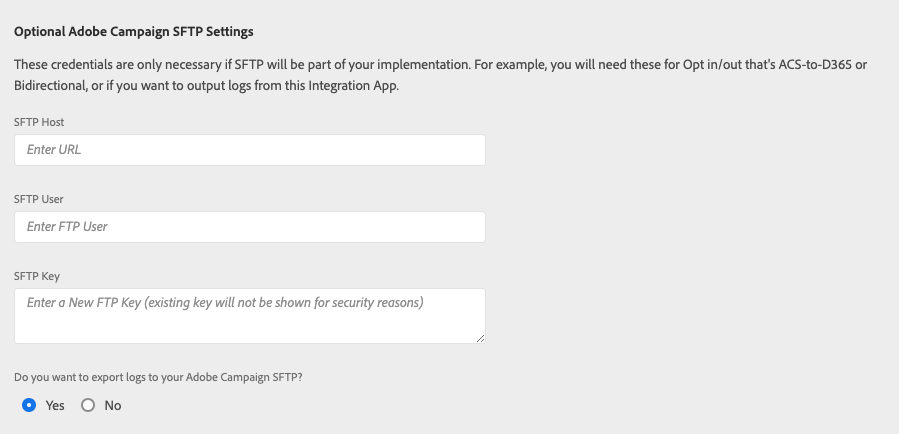
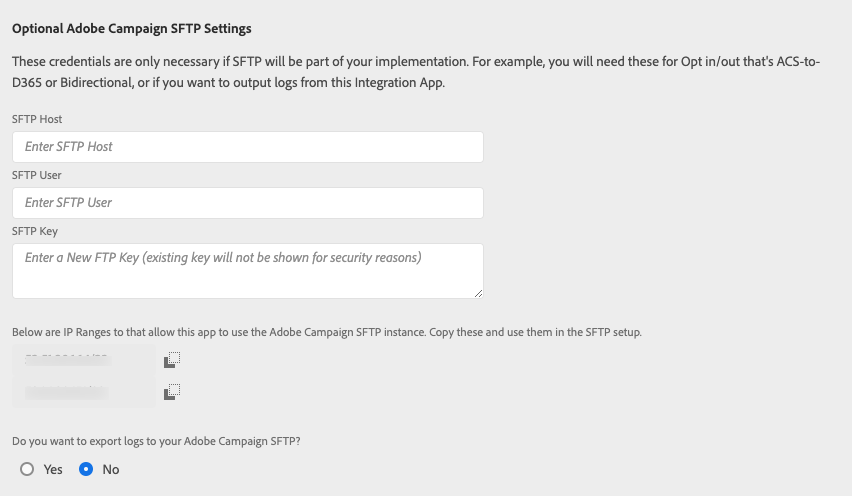
updates from document review

diff --git a/help/integrating/using/self-service-app-settings.md b/help/integrating/using/self-service-app-settings.md
@@ -65,7 +65,9 @@ there is a flow of data from Adobe Campaign to Dynamics 365 (either "Unidirectio
 
 * <u>SFTP Key</u>: TBD (need to include or reference instructions)
 
-QUESTIONS: 
-* ARE WE GOING TO SUPPLY OR IP RANGES FOR THEM TO USE WITH SFTP SETUP?
-* CAN WE DEFINE (SFTP) "SFTP HOST" (ADOBE.IO) "URL" BASED ONT HE CURRENTLY SELECTED INSTANCE NAME?  
+* The IP Ranges will be needed to included in your Adobe Campaign Standard SFTP configuration.   These will need to be
+  whitelisted in order for the integration to make use of the SFTP endpoint.  
 
+* The "Do you want to export logs to your Adobe Campaign SFTP?" allows you to determine if the integration will output
+  logging information to the SFTP endpoint.   This can be used to help with debugging if Campaign or Dynamics 365 isn't
+  showing the information you are expecting.
